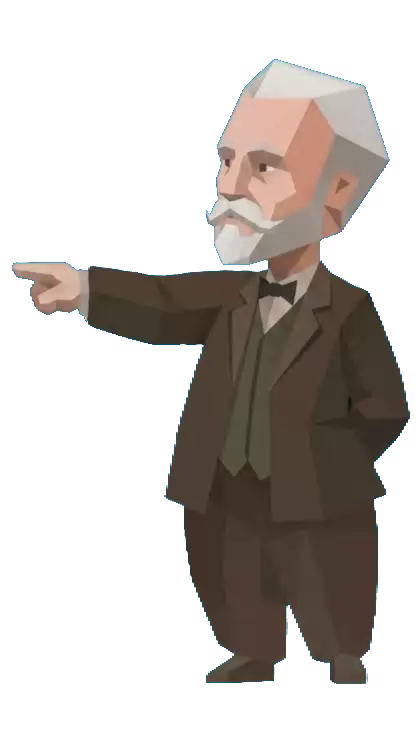
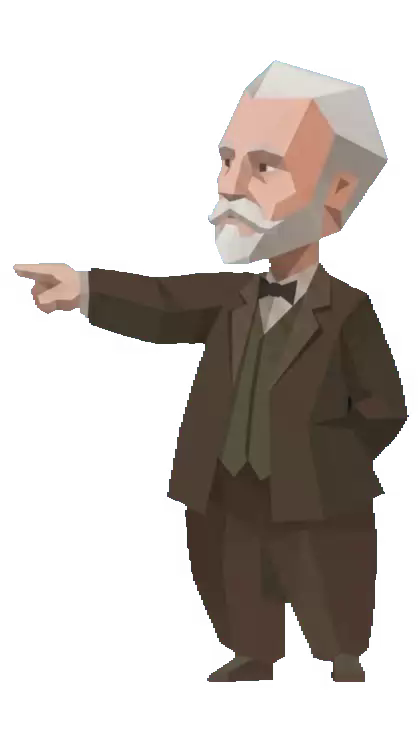
auto: manual deploy

diff --git a/site.js b/site.js
@@ -61,31 +61,36 @@
     targets.forEach(function (t) { t.classList.add("in"); });
   }
 
-  /* ---- 協賛CTA：スライドイン完了後にポスター→動画再生（同一要素で寸法完全一致） ---- */
+  /* ---- 協賛CTA：スライドイン完了後にポスター→動画へ。動画が実際に再生開始してから切替 ---- */
   var clark = document.querySelector(".cta-clark");
-  if (clark && clark.tagName === "VIDEO" && !reduce && "IntersectionObserver" in window) {
-    var clarkPlayed = false;
-    var playClark = function () {
-      if (clarkPlayed) return;
-      clarkPlayed = true;
-      var p = clark.play();
-      if (p && p.catch) { p.catch(function () {}); }
-    };
-    clark.addEventListener("transitionend", function (ev) {
-      if (ev.target === clark && ev.propertyName === "transform" && clark.classList.contains("in")) {
-        playClark();
-      }
-    });
-    /* 保険：万一transitionendが来なくてもinから1.6s後に再生 */
-    var clarkFallbackIO = new IntersectionObserver(function (entries) {
-      entries.forEach(function (e) {
-        if (e.isIntersecting) {
-          clarkFallbackIO.unobserve(e.target);
-          setTimeout(playClark, 1600);
+  if (clark && !reduce && "IntersectionObserver" in window) {
+    var clarkVideo = clark.querySelector(".cta-clark-video");
+    if (clarkVideo) {
+      /* 動画が実際にフレームを描き始めてからポスターを隠す（空白防止） */
+      clarkVideo.addEventListener("playing", function () { clark.classList.add("playing"); });
+      var clarkPlayed = false;
+      var playClark = function () {
+        if (clarkPlayed) return;
+        clarkPlayed = true;
+        var p = clarkVideo.play();
+        if (p && p.catch) { p.catch(function () {}); }
+      };
+      clark.addEventListener("transitionend", function (ev) {
+        if (ev.target === clark && ev.propertyName === "transform" && clark.classList.contains("in")) {
+          playClark();
         }
       });
-    }, { threshold: 0.12, rootMargin: "0px 0px -8% 0px" });
-    clarkFallbackIO.observe(clark);
+      /* 保険：万一transitionendが来なくてもinから1.6s後に再生 */
+      var clarkFallbackIO = new IntersectionObserver(function (entries) {
+        entries.forEach(function (e) {
+          if (e.isIntersecting) {
+            clarkFallbackIO.unobserve(e.target);
+            setTimeout(playClark, 1600);
+          }
+        });
+      }, { threshold: 0.12, rootMargin: "0px 0px -8% 0px" });
+      clarkFallbackIO.observe(clark);
+    }
   }
 
   /* ---- MBTIキャラ画像の有無を判定して画像モードへ切替 ----

diff --git a/index.html b/index.html
@@ -384,10 +384,13 @@
             <p>ココカラは、企業と学生をつなぐ交流会を毎月開催しています。<br />学生と本音で出会いたい企業さまを募集しています。</p>
             <a class="btn" href="sponsors.html">協賛企業一覧を見る <span class="arrow">→</span></a>
           </div>
-          <video class="cta-clark" aria-hidden="true" muted loop playsinline preload="auto" poster="assets/clark_poster.png">
-            <source src="assets/clark_alpha3.webm" type="video/webm" />
-            <source src="assets/mbti/_new/CLRK_deleted.mp4" type="video/mp4" />
-          </video>
+          <div class="cta-clark" aria-hidden="true">
+            <img class="cta-clark-poster" src="assets/clark_poster.png" alt="" />
+            <video class="cta-clark-video" muted loop playsinline preload="auto">
+              <source src="assets/clark_alpha5.webm" type="video/webm" />
+              <source src="assets/mbti/_new/CLRK_deleted.mp4" type="video/mp4" />
+            </video>
+          </div>
         </div>
       </div>
     </section>

diff --git a/style.css b/style.css
@@ -827,11 +827,14 @@ a.stmt-card { transition: transform .4s var(--ease); }
 }
 
 /* 協賛CTA右側のクラーク博士（左の見出しを指さす）
-   静止画はポスター、スライドイン完了後に同じ要素のまま動画再生 → 寸法・ポーズ完全一致 */
+   ポスターimgと透過動画を重ね、動画が実際に再生開始してから切替 → 一瞬の空白を防止 */
 .cta-clark {
   display: block;
   position: absolute; left: 74%; top: 50%; transform: translate(-50%, -50%);
-  width: clamp(170px, 21vw, 300px); height: auto; z-index: 2;
-  object-fit: cover; pointer-events: none; background: transparent;
+  width: clamp(170px, 21vw, 300px); z-index: 2; pointer-events: none;
 }
+.cta-clark-poster { display: block; width: 100%; height: auto; }
+.cta-clark-video { position: absolute; inset: 0; width: 100%; height: 100%; object-fit: cover; opacity: 0; }
+.cta-clark.playing .cta-clark-video { opacity: 1; }
+.cta-clark.playing .cta-clark-poster { opacity: 0; }
 @media (max-width: 900px) { .cta-clark { display: none; } }